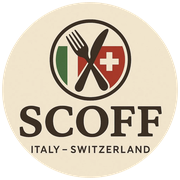
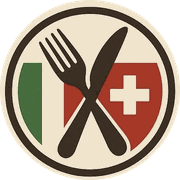
Kopfzeile: nur noch das Emblem, kein Schriftzug
Das Logo stand doppelt: klein oben und gross direkt darunter im Hero. Jetzt
traegt die Kopfzeile nur den inneren Kreis (Besteck ueber den beiden Flaggen),
der Name steht gross im Hero-Logo.

- images/scoff-emblem.png: Emblem aus dem Logo freigestellt, rund, transparent
- Favicons neu aus dem Emblem erzeugt - als kleines Bild im Browser-Tab ist
  es besser erkennbar als das vollstaendige Logo
- Der Schriftzug SCOFF faellt in der Kopfzeile weg; der Link traegt jetzt
  den alt-Text "Scoff - zur Startseite", damit er vorlesbar bleibt

Claude-Session: https://claude.ai/code/session_0124hUjitxx4wcbKvuYFjr2U

diff --git a/styles.css b/styles.css
@@ -172,13 +172,12 @@ h3 { font-size: 1.12rem; font-weight: 700; margin: 0 0 .5rem; }
   gap: 1rem; padding-block: 1.1rem;
 }
 
+/* In der Kopfzeile steht nur das Emblem - der Name steht gross im Hero. */
 .logo {
-  display: flex; align-items: center; gap: .65rem;
-  font-weight: 800; letter-spacing: .16em; font-size: 1.2rem;
-  color: #fff; text-decoration: none;
+  display: flex; align-items: center;
+  text-decoration: none;
 }
 
-/* Das runde Logo. Die Bilddatei ist bereits kreisrund freigestellt. */
 .logo-bild { width: var(--logo-klein); height: var(--logo-klein); }
 
 .nav a {

diff --git a/danke.html b/danke.html
@@ -19,8 +19,8 @@
 <header class="site-header">
   <div class="wrap">
     <a class="logo" href="index.html">
-      <img class="logo-bild" src="images/scoff-logo.png" alt="" width="56" height="56">
-      <span>SCOFF</span>
+      <img class="logo-bild" src="images/scoff-emblem.png"
+           alt="Scoff – zur Startseite" width="56" height="56">
     </a>
 
     <nav class="nav" id="hauptnavigation" aria-label="Hauptnavigation">

diff --git a/datenschutz.html b/datenschutz.html
@@ -19,8 +19,8 @@
 <header class="site-header">
   <div class="wrap">
     <a class="logo" href="index.html">
-      <img class="logo-bild" src="images/scoff-logo.png" alt="" width="56" height="56">
-      <span>SCOFF</span>
+      <img class="logo-bild" src="images/scoff-emblem.png"
+           alt="Scoff – zur Startseite" width="56" height="56">
     </a>
 
     <nav class="nav" id="hauptnavigation" aria-label="Hauptnavigation">

diff --git a/impressum.html b/impressum.html
@@ -20,8 +20,8 @@
 <header class="site-header">
   <div class="wrap">
     <a class="logo" href="index.html">
-      <img class="logo-bild" src="images/scoff-logo.png" alt="" width="56" height="56">
-      <span>SCOFF</span>
+      <img class="logo-bild" src="images/scoff-emblem.png"
+           alt="Scoff – zur Startseite" width="56" height="56">
     </a>
 
     <nav class="nav" id="hauptnavigation" aria-label="Hauptnavigation">

diff --git a/index.html b/index.html
@@ -20,8 +20,8 @@
 <header class="site-header">
   <div class="wrap">
     <a class="logo" href="index.html">
-      <img class="logo-bild" src="images/scoff-logo.png" alt="" width="56" height="56">
-      <span>SCOFF</span>
+      <img class="logo-bild" src="images/scoff-emblem.png"
+           alt="Scoff – zur Startseite" width="56" height="56">
     </a>
 
     <nav class="nav" id="hauptnavigation" aria-label="Hauptnavigation">
